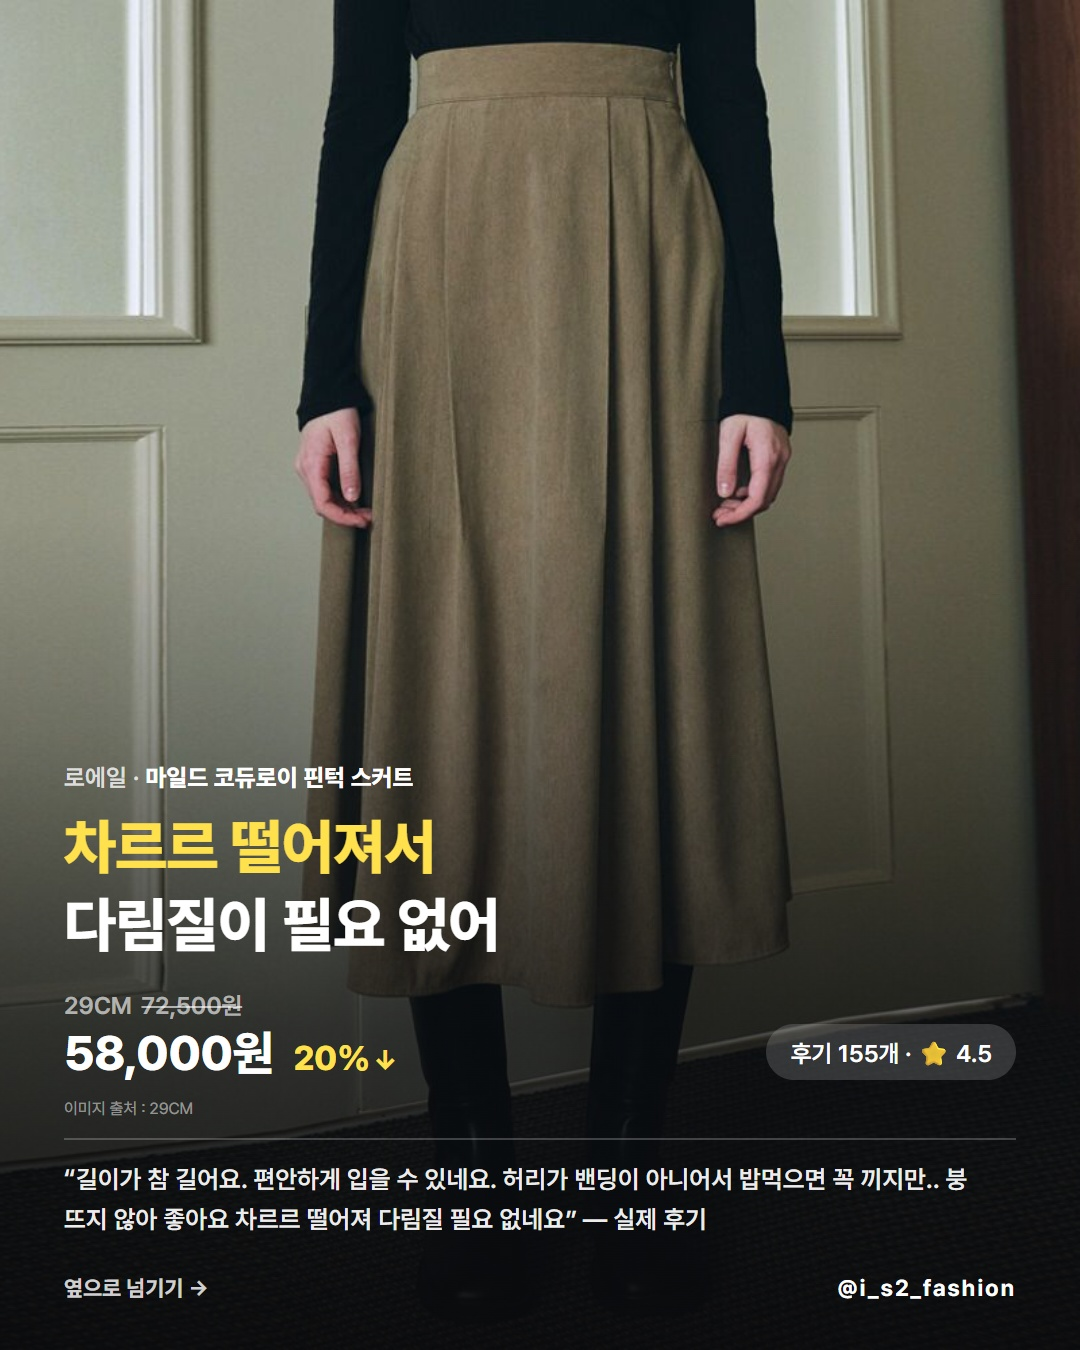
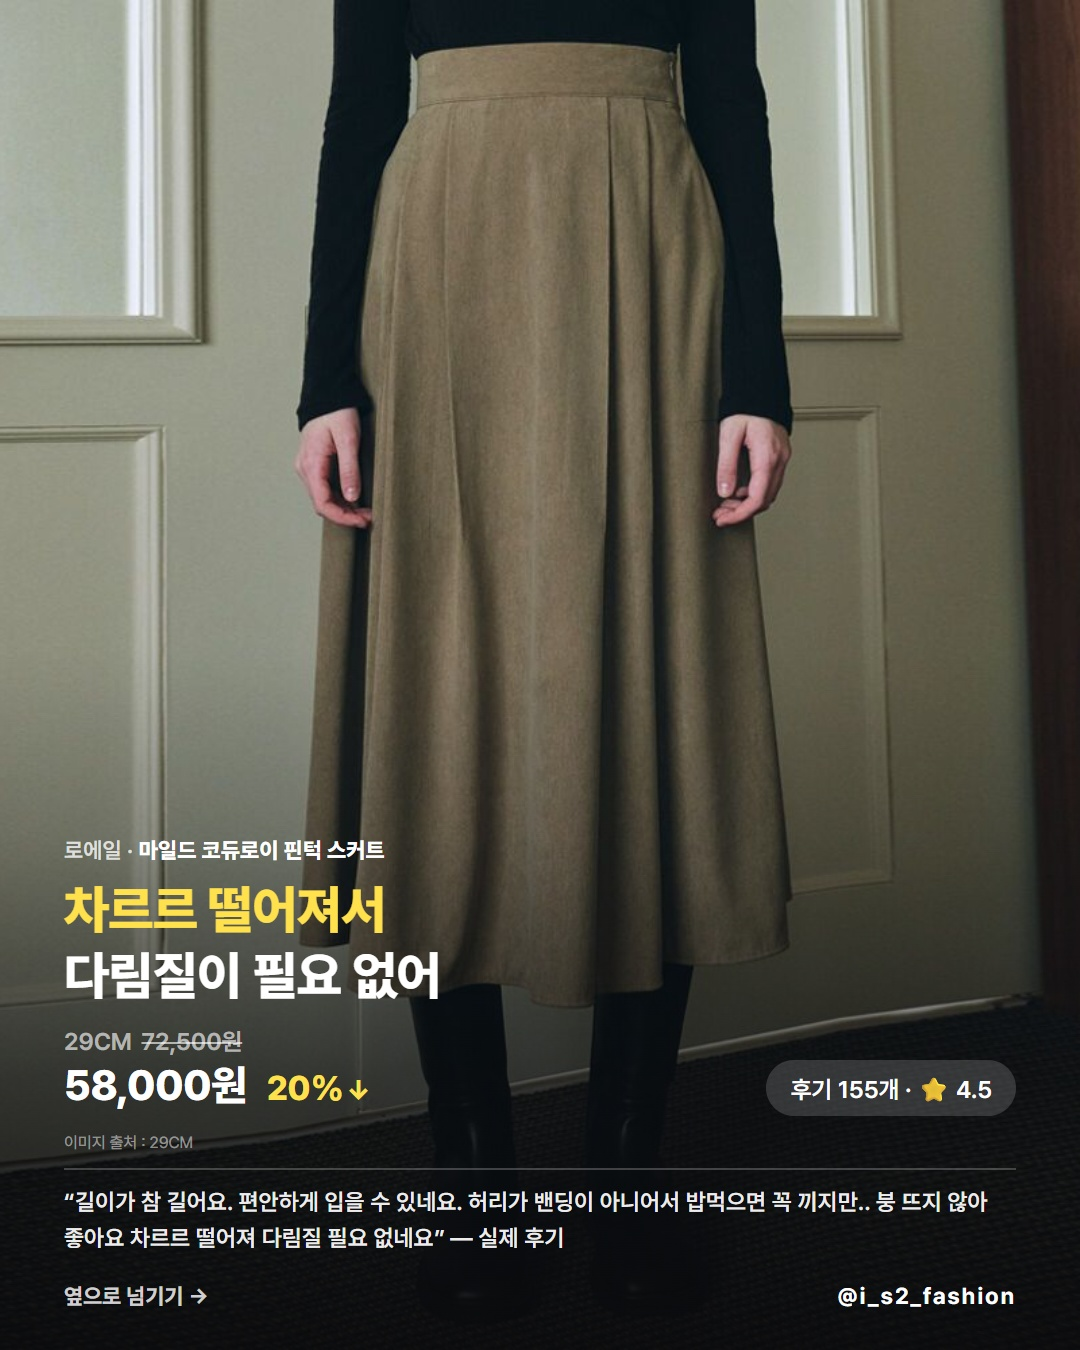
design: 전면 이미지형 텍스트 블록 슬림화 (카드의 43% → 35%)
"사진은 잘 들어오는데 하단이 글자로 잘려 실루엣을 보기 애매하다"는 피드백.
레이아웃·기각 목록은 그대로 두고 폰트/여백/그라데이션만 축소:
헤드라인 30→26px, 인용 12.5→11.5px, 판매가 24→21px, 상품명 12→11px,
bottom 24→20px, 그라데이션 페이드 62%→52%.
맥시 2종(커스텀어클락·노우드)의 밑단·신발이 드러난다.

5번 카드는 헤드라인이 가리키던 "발목"이 가려 안 보여, 사진에 보이는
"허리끈" 기준 헤드라인·인용으로 교체(§3 규칙).
card-drafts/README 스펙표·KEYWORD-POLICY §4 갱신.

Claude-Session: https://claude.ai/code/session_01DHzxXbsUDjvNN5eDKaHB8r

Changed region(s): [[0.0, 0.5289, 0.9472, 0.9644], [0.7639, 0.9333, 0.9472, 0.9644]]

diff --git a/card-drafts/early-autumn-skirt/index.html b/card-drafts/early-autumn-skirt/index.html
@@ -38,18 +38,18 @@
 .card.item .photo,.card.cover .photo{position:absolute;inset:0;width:540px;height:675px;margin:0;border-radius:0;background:#fff;box-shadow:none}
 .card.item .photo img,.card.cover .photo img{width:100%;height:100%;object-fit:cover;object-position:var(--pos,50% 15%)}
 .card.item .photo .badge,.card.cover .photo .badge{left:32px;top:28px;font-size:15px;padding:7px 11px}
-.card .shade{position:absolute;inset:0;background:linear-gradient(to top,rgba(10,10,12,.9) 0%,rgba(10,10,12,.66) 24%,rgba(10,10,12,.22) 46%,rgba(10,10,12,0) 62%)}
-.card .over{position:absolute;left:32px;right:32px;bottom:24px;color:#fff}
-.card .over .prodline{font-size:12px;color:rgba(255,255,255,.78);margin-bottom:8px}
+.card .shade{position:absolute;inset:0;background:linear-gradient(to top,rgba(10,10,12,.9) 0%,rgba(10,10,12,.62) 20%,rgba(10,10,12,.18) 38%,rgba(10,10,12,0) 52%)}
+.card .over{position:absolute;left:32px;right:32px;bottom:20px;color:#fff}
+.card .over .prodline{font-size:11px;color:rgba(255,255,255,.78);margin-bottom:6px}
 .card .over .prodline b{color:#fff}
-.card .over .title{font-size:30px;line-height:1.3;letter-spacing:-.3px;color:#fff}
+.card .over .title{font-size:26px;line-height:1.28;letter-spacing:-.3px;color:#fff}
 .card .over .title em{box-shadow:none;color:#ffe14d}
 .card .over .metarow{margin-top:12px;gap:10px}
-.card .over .pricebox{margin-top:14px}
+.card .over .pricebox{margin-top:10px}
 .card .over .was{font-size:12px;font-weight:600;color:rgba(255,255,255,.62)}
 .card .over .was s{color:rgba(255,255,255,.62);margin-left:2px}
 .card .over .now{display:flex;align-items:baseline;gap:10px;margin-top:2px}
-.card .over .now b{font-size:24px;font-weight:800;letter-spacing:-.3px;color:#fff}
+.card .over .now b{font-size:21px;font-weight:800;letter-spacing:-.3px;color:#fff}
 .card .over .off{font-size:17px;font-weight:800;color:#ffe14d;letter-spacing:-.2px}
 .card .over .off i{font-style:normal;font-size:14px;margin-left:1px}
 .card .over .now .proof{margin-left:auto;align-self:center}
@@ -57,8 +57,8 @@
 .card .over .meta s{color:rgba(255,255,255,.55)}
 .card .over .proof{background:rgba(255,255,255,.16);color:#fff;font-size:12px}
 .card .over .credit{color:rgba(255,255,255,.5);margin-top:8px}
-.card .over .selling{color:rgba(255,255,255,.92);border-top:1px solid rgba(255,255,255,.22);font-size:12.5px;line-height:1.65;margin-top:10px;padding-top:10px}
-.card .over .bottom{display:flex;justify-content:space-between;align-items:center;margin-top:16px;font-size:11px;font-weight:700;color:rgba(255,255,255,.8)}
+.card .over .selling{color:rgba(255,255,255,.92);border-top:1px solid rgba(255,255,255,.22);font-size:11.5px;line-height:1.55;margin-top:8px;padding-top:8px}
+.card .over .bottom{display:flex;justify-content:space-between;align-items:center;margin-top:12px;font-size:11px;font-weight:700;color:rgba(255,255,255,.8)}
 .card .over .bottom .handle{font-size:11.5px;letter-spacing:.08em;color:#fff}
 .card.cover .over .kicker{font-size:13px;letter-spacing:.14em;color:#ff5c85;margin-bottom:10px}
 .card.cover .over .title{font-size:42px;line-height:1.22;letter-spacing:-.5px}
@@ -71,7 +71,7 @@ const cards=[
 {kind:'item',img:'assets/01-drawfit.jpg',pos:'50% 50%',lab:'드로우핏 우먼',badge:'10%',prod:'드로우핏 우먼 · <b>스티치 플리츠 미니 스커트</b>',title:'<em>계단을 올라도</em><br>부담스럽지 않은 길이',meta:'29CM <s>55,000원</s> 49,500원',proof:'후기 86개 · ⭐ 5.0',sp:'“겨울에 입기에는 조금 얇지만 핏도 예쁘게 잡히고, 길이도 부담스럽지 않을 정도로만 짧아서 계단 올라갈 때도 괜찮습니다 ㅎㅎ” —&nbsp;실제&nbsp;후기'},
 {kind:'item',img:'assets/02-tillidie.jpg',pos:'50% 50%',lab:'틸아이다이',badge:'18%',prod:'틸아이다이 · <b>골드 벨트 랩 스커트</b>',title:'앞트임이 포인트라<br><em>출근룩으로도 괜찮아</em>',meta:'29CM <s>111,000원</s> 91,020원',proof:'후기 358개 · ⭐ 4.5',sp:'“길이 적당하고 편해요. 출근룩으로도 괜찮고 두툼한 편이라 가을 겨울에 입기 좋아요. 먼지는 조금 달라 붙는편이고 앞에 트임이 있어서 포인트됩니다.” —&nbsp;실제&nbsp;후기'},
 {kind:'item',img:'assets/03-loeil.jpg',pos:'50% 50%',lab:'로에일',badge:'20%',prod:'로에일 · <b>마일드 코듀로이 핀턱 스커트</b>',title:'<em>차르르 떨어져서</em><br>다림질이 필요 없어',meta:'29CM <s>72,500원</s> 58,000원',proof:'후기 155개 · ⭐ 4.5',sp:'“길이가 참 길어요. 편안하게 입을 수 있네요. 허리가 밴딩이 아니어서 밥먹으면 꼭 끼지만.. 붕 뜨지 않아 좋아요 차르르 떨어져 다림질 필요 없네요” —&nbsp;실제&nbsp;후기'},
-{kind:'item',img:'assets/04-costumeoclock.jpg',pos:'50% 50%',lab:'커스텀어클락 우먼',badge:'20%',prod:'커스텀어클락 우먼 · <b>포멀 슬릿 H라인 맥시 스커트</b>',title:'앉아도 편한데<br><em>발목까지 오는 기장</em>',meta:'29CM <s>62,000원</s> 49,600원',proof:'후기 545개 · ⭐ 5.0',sp:'“재질이 너무 두껍지 않고 스판이 어느정도 있는 재질이라 앉을때나 움직일깨 편안해요~~!! 길이도 딱 제가 원하던 발목까지 오는 맥시스커트라 좋아요 ㅎㅎ” —&nbsp;실제&nbsp;후기'},
+{kind:'item',img:'assets/04-costumeoclock.jpg',pos:'50% 50%',lab:'커스텀어클락 우먼',badge:'20%',prod:'커스텀어클락 우먼 · <b>포멀 슬릿 H라인 맥시 스커트</b>',title:'허리끈을 뺐다 꼈다<br><em>사계절 출근룩으로</em>',meta:'29CM <s>62,000원</s> 49,600원',proof:'후기 545개 · ⭐ 5.0',sp:'“발목까지 오는 넉넉한 기장의 스커트 찾고 있었는데 딱이에요! 허리끈도 뺏다꼈다 할 수 있어서 다양한 스타일로 연출할 수 있어요. 무난하게 사계절 출근룩으로 잘 입을 수 있을 것 같아요!!” —&nbsp;실제&nbsp;후기'},
 {kind:'item',img:'assets/05-noeud.jpg',pos:'50% 50%',lab:'노우드',prod:'노우드 · <b>소프트 이즈 스커트</b>',title:'슬릿이 없는데<br><em>잘 늘어나서 편해</em>',meta:'29CM <s></s> 56,000원',proof:'후기 557개 · ⭐ 5.0',sp:'“원하는 길이라 마음에 들고요 슬릿없는스커트 찾고있었는데 딱이에요 기본템으로 코디하기 좋고 잘 늘어나서 너무 편해요 몸라인이 좀 드러나는 원단두께감이라 햄라인 속옷 입어야 되요” —&nbsp;실제&nbsp;후기'},
 {kind:'cta',img:'../../CARD/zzal/20260908.jpg',lab:'CTA',title:'가을 냄새 나면<br><em>옷장부터 바꿉니다</em>',sub:'출근룩 고민되는 자리 한 줄이면<br>여기서 하나 짚어드릴게요'}];
 function html(c,i){const handle='@i_s2_fashion';if(c.kind==='cta'){return `<div class="card cta" id="card${i}"><div class="toprow"><span class="handle">&nbsp;</span><span class="num">&nbsp;</span></div><div class="photo"><img src="${c.img}" alt="" onload="sizePhoto(this)"></div><div class="caption"><h2 class="title">${c.title}</h2><p class="sub">${c.sub}</p></div><div class="foot">${handle}</div></div>`}

diff --git a/card-drafts/early-autumn-skirt/verify.py b/card-drafts/early-autumn-skirt/verify.py
@@ -26,7 +26,7 @@ CARDS = [
          quote="차르르 떨어져 다림질 필요 없네요", other=("musinsa", "2890244")),
     dict(brand="커스텀어클락 우먼", mall="29cm", no="3462638", price=49600, normal=62000, rate=20, reviews=545, score=5.0,
          kw="커스텀어클락 H라인 맥시 스커트", name="[듀닝 PICK] 포멀 슬릿 H라인 맥시 스커트 차콜 COWSK002CHARCOAL",
-         quote="발목까지 오는 맥시스커트라 좋아요", other=("musinsa", "5366191")),
+         quote="허리끈도 뺏다꼈다 할 수 있어서", other=("musinsa", "5366191")),
     dict(brand="노우드", mall="29cm", no="3736187", price=56000, normal=56000, rate=0, reviews=557, score=5.0,
          kw="노우드 Soft Ease Skirt", name="Soft Ease Skirt (Black)",
          quote="슬릿없는스커트 찾고있었는데 딱이에요", other=("musinsa", "5984932"),

diff --git a/card-drafts/README.md b/card-drafts/README.md
@@ -43,19 +43,21 @@ Playwright는 시스템 Python 3.12에 설치돼 있고 `C:\Program Files\Google
 |---|---|
 | 카드 | 540×675 (×2 = 1080×1350). 표지·상품 공통, CTA만 예외 |
 | 사진 | `position:absolute; inset:0; object-fit:cover; object-position:var(--pos)` |
-| 그라데이션 | `linear-gradient(to top, rgba(10,10,12,.9) 0%, .66 24%, .22 46%, 0 62%)` |
-| 텍스트 블록 | `left/right:32px; bottom:24px; color:#fff` |
-| 상품명 줄 | 12px 흰 78% — `브랜드 · <b>상품명</b>` |
-| 헤드라인 | 상품 30px/1.3/-.3px · 표지 42px/1.22/-.5px. `<em>`은 **노란 글자 #ffe14d**(밑줄 아님) |
-| 가격 블록 | `무신사 ~~정가~~` 12px 62% → 판매가 **24px 굵게** + `31%↓` 17px #ffe14d. 후기 칩(반투명 흰, 12px)은 같은 줄 오른쪽 끝 |
+| 그라데이션 | `linear-gradient(to top, rgba(10,10,12,.9) 0%, .62 20%, .18 38%, 0 52%)` **(09-08 완화 — 하단이 실루엣을 가려서)** |
+| 텍스트 블록 | `left/right:32px; bottom:20px; color:#fff` · 전체 높이 카드의 **35%**(09-08 이전 43%) |
+| 상품명 줄 | 11px 흰 78% — `브랜드 · <b>상품명</b>` |
+| 헤드라인 | 상품 **26px**/1.28/-.3px · 표지 42px/1.22/-.5px. `<em>`은 **노란 글자 #ffe14d**(밑줄 아님) |
+| 가격 블록 | `29CM ~~정가~~` 12px 62% → 판매가 **21px 굵게** + `31%↓` 17px #ffe14d. 후기 칩(반투명 흰, 12px)은 같은 줄 오른쪽 끝 |
 | 출처 | `이미지 출처 : 무신사` 8px 흰 50% |
-| 인용문 | 12.5px/1.65, 위에 1px 흰 22% 구분선, 끝에 `— 실제 후기` |
+| 인용문 | 11.5px/1.55, 위에 1px 흰 22% 구분선, 끝에 `— 실제 후기` |
 | 마지막 줄 | 왼쪽 `옆으로 넘기기 →`, 오른쪽 `@i_s2_fashion` 11.5px. **페이지 번호·상단 계정명 줄 없음** |
 | 표지 추가 | 키커 13px #ff5c85 자간 .14em · 서브 15px 흰 85% |
 | CTA | 흰 배경·가운데 정렬·짤 400×380·노란 밑줄 강조·계정명 오른쪽 하단 |
 | 폰트·색 | Pretendard Variable(CDN) · 악센트 #ff3366 · 노랑 #ffe14d |
 
 **기각된 시도(다시 하지 말 것)** — 블러 배경 확장("이질감") · 좌우 70px 인셋(오독) · 가로 풀블리드 540×340(옷이 안 보임) · 디테일 클로즈업 나열(옷 형태가 안 읽힘) · 세로 2단 270px 사진 기둥("어중간하게 잘린 느낌") · 사진 위 할인 배지("붕 뜬 느낌") · 가격 앞 핑크 칩("아쉽다") · 페이지 번호 · 상단 계정명 줄. 채택된 것: 전면 이미지형 + 가격 옆 노란 `36%↓`("훨씬 낫다").
+
+**2026-09-08 조정 — 텍스트 블록 슬림화.** "사진은 잘 들어오는데 하단이 글자로 잘려 전체 실루엣을 보기 애매하다"는 피드백. 레이아웃은 그대로 두고 폰트·여백·그라데이션만 줄여 텍스트 블록을 카드의 **43% → 35%**로 낮췄다(맥시 스커트 밑단·신발이 드러난다). **기각된 시도 목록은 그대로 유효하다** — 사진을 줄이거나 배경을 늘리는 방향은 금지.
 
 ## 사진 고르는 법
 - 무신사 상세 API `goods-detail.musinsa.com/api2/goods/{no}`의 `goodsImages[]` → `https://image.msscdn.net` + 경로, `_500` 대신 `_big`(1500×1800)으로 받는다(requests 가능).

diff --git a/card-drafts/early-autumn-skirt/result.md b/card-drafts/early-autumn-skirt/result.md
@@ -7,7 +7,7 @@
 - **소구점(09-08 사용자 선택)**: 실루엣이 아니라 **활동성**. 표지 "앉을 때나 걸을 때나 / **편한 가을 출근룩**"(09-08 사용자 지정 — 출근룩 소구 + 시즌성 명시), 서브 "9월 출근길에 매일 손이 갈 치마 다섯", 서브 "하루를 끝까지 입고 있을 치마 다섯". 상품 5종은 그대로 두고 표지·캡션·카드 헤드라인·인용을 **활동성 근거가 있는 후기로 교체**했다(계단·앉을 때·늘어남·다림질·출근룩). 5장 전부 해당 후기가 실재한다 — 후보 축이었던 '두께'와 '후기 1,701개 검증'은 보류.
 - **대조군**: `20260904 초가을 데님`(09-08 잠정 293·공유 2) / `20260831 초가을 아우터`(09-08 측정 119·공유 0, 로스터 0곳) / 스커트 축 `20260718 롱스커트`(누적 791·공유 2).
 - **판정 기준**: +72h **도달 200 이상 + 공유 1건 이상**이면 우세 참고 신호. 도달 150 미만이면 "로스터 1곳만으로는 회복되지 않는다"로 기록.
-- **표지 유형**: 무드형 (실험 #1 보류 중). **디자인**: 전면 이미지형 3회차.
+- **표지 유형**: 무드형 (실험 #1 보류 중). **디자인**: 전면 이미지형 3회차 + **09-08 텍스트 블록 슬림화**(카드의 43%→35%). 사용자 피드백 "하단이 글자로 잘려 전체 실루엣을 보기 애매하다" — 레이아웃은 유지하고 폰트·여백·그라데이션만 줄였다. 5번 카드는 헤드라인이 "발목까지 오는 기장"인데 발목이 가려 보이지 않아, 사진에 실제로 보이는 **허리끈** 기준 헤드라인·인용으로 교체했다.
 
 ### ⚠ 변수 오염 / 주의
 1. **5종 전부 29CM**(무신사 4 + 29CM 1이었던 직전 회차와 다르다). 몰 구성이 바뀐 것이 도달에 영향을 줄 가능성은 낮지만 기록해 둔다.

diff --git a/KEYWORD-POLICY.md b/KEYWORD-POLICY.md
@@ -34,7 +34,7 @@
 - **표지 사진은 상품 카드 어느 것과도 같은 원본이면 안 된다**(08-11). 크롭만 다른 같은 원본도 "같은 사진". 표준: 한 상품의 다른 컷을 표지로.
 - 표지 줌 크롭 금지(08-10, 화질·구도 훼손). 원본 해상도로 카드 비율에 맞춰 채우는 것은 허용. 세로 착용컷 원본(`_big` 1500×1800)은 4:5 카드에 거의 잘리지 않는다. 흰 여백이 있는 원본은 여백을 먼저 잘라낸다.
 - **CTA(마지막) 카드는 무한도전 짤** — `CARD/zzal/`에서 **수정일 최신 파일**. 흰 배경·가운데 정렬·계정명 오른쪽 하단. 하단 과여백 금지(짤을 크게).
-- 헤드라인 크기: 상품 30px·표지 42px·CTA 32px(08-19 "큰 글씨가 너무 커" 이후 한 단계 줄인 상태).
+- 헤드라인 크기: 상품 **26px**·표지 42px·CTA 32px(08-19 "큰 글씨가 너무 커"로 한 단계, 09-08 "하단이 글자로 잘려 실루엣이 안 보인다"로 또 한 단계 줄인 상태). **하단 텍스트 블록은 카드 높이의 35%를 넘기지 않는다** — 넘으면 밑단이 가려 기장·실루엣을 못 본다.
 - **기각된 시도(다시 하지 말 것)**: 블러 배경 확장 · 좌우 인셋 · 가로 풀블리드 크롭(옷이 안 보임) · 디테일 클로즈업 나열 · 세로 2단 · 사진 위 할인 배지 · 가격 앞 핑크 칩 · 페이지 번호 · 상단 계정명 줄.
 - 현역 파이프라인 템플릿 `card-drafts/uvparasol-insta.html`은 **구 레이아웃**이다(이식 미완). 수동 제작은 `card-drafts/early-autumn-outer/index.html`을 복제한다.
 
